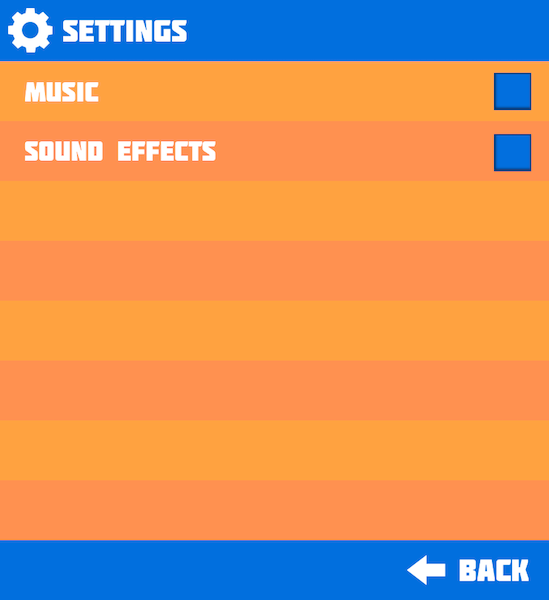
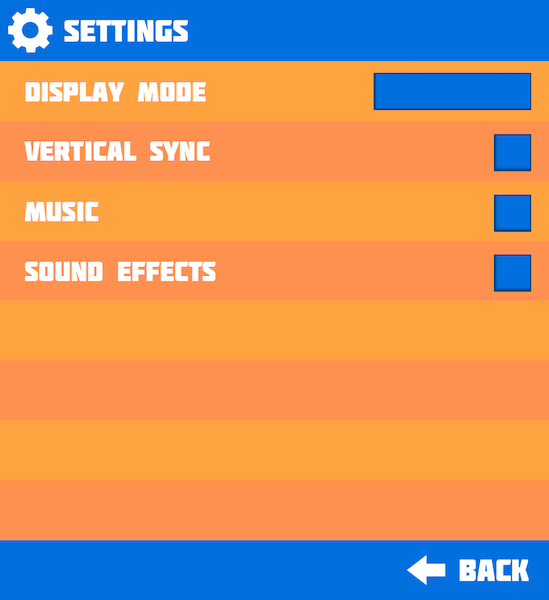
More options added to settings menu

diff --git a/core/src/com/game/Settings.java b/core/src/com/game/Settings.java
@@ -27,6 +27,8 @@ public class Settings implements Screen {
     private float timeElapsed;
     public static boolean musicEnabled = true;
     public static boolean sfxEnabled = true;
+    private boolean vSyncEnabled = true;
+    private boolean fullScreenEnabled = true;
 
     /**
      * Constructor for Settings screen.
@@ -69,12 +71,23 @@ public class Settings implements Screen {
         GameEntry.batch.draw(settingsBox, Gdx.graphics.getWidth()/2 - settingsBox.getWidth()/2, Gdx.graphics.getHeight()/2 - settingsBox.getHeight()/2);
 
         //Checkmarks
+        if(fullScreenEnabled){
+            font.draw(GameEntry.batch, "Full Screen", Gdx.graphics.getWidth()/2 - settingsBox.getWidth()/2 + 383, Gdx.graphics.getHeight()/2 + settingsBox.getHeight()/2 - 81);
+        }
+        else{
+            font.draw(GameEntry.batch, "Windowed", Gdx.graphics.getWidth()/2 - settingsBox.getWidth()/2 + 384, Gdx.graphics.getHeight()/2 + settingsBox.getHeight()/2 - 81);
+        }
+
+        if(vSyncEnabled){
+            GameEntry.batch.draw(checkmark, (Gdx.graphics.getWidth()/2 - settingsBox.getWidth()/2) + 493, (Gdx.graphics.getHeight()/2 - settingsBox.getHeight()/2) + 428, 40, 40);
+        }
+
         if(musicEnabled){
-            GameEntry.batch.draw(checkmark, (Gdx.graphics.getWidth()/2 - settingsBox.getWidth()/2) + 493, (Gdx.graphics.getHeight()/2 - settingsBox.getHeight()/2) + 489, 40, 40);
+            GameEntry.batch.draw(checkmark, (Gdx.graphics.getWidth()/2 - settingsBox.getWidth()/2) + 493, (Gdx.graphics.getHeight()/2 - settingsBox.getHeight()/2) + 367, 40, 40);
         }
 
         if(sfxEnabled){
-            GameEntry.batch.draw(checkmark, (Gdx.graphics.getWidth()/2 - settingsBox.getWidth()/2) + 493, (Gdx.graphics.getHeight()/2 - settingsBox.getHeight()/2) + 428, 40, 40);
+            GameEntry.batch.draw(checkmark, (Gdx.graphics.getWidth()/2 - settingsBox.getWidth()/2) + 493, (Gdx.graphics.getHeight()/2 - settingsBox.getHeight()/2) + 306, 40, 40);
         }
 
         //Get mouse coordinates
@@ -83,13 +96,51 @@ public class Settings implements Screen {
 
         //font.draw(GameEntry.batch, "" + xPos, Gdx.graphics.getWidth()/2 - 80, Gdx.graphics.getHeight()/2 + 20);
         //font.draw(GameEntry.batch, "" + yPos, Gdx.graphics.getWidth()/2 - 80, Gdx.graphics.getHeight()/2 + 40);
-        //font.draw(GameEntry.batch, "" + (Gdx.graphics.getWidth()/2 - settingsBox.getWidth()/2), Gdx.graphics.getWidth()/2 - 80, Gdx.graphics.getHeight()/2 + 80);
-        //font.draw(GameEntry.batch, "" + (Gdx.graphics.getHeight()/2 - settingsBox.getHeight()/2), Gdx.graphics.getWidth()/2 - 80, Gdx.graphics.getHeight()/2 + 100);
-        font.draw(GameEntry.batch, "more options to be added", Gdx.graphics.getWidth()/2 - 80, Gdx.graphics.getHeight()/2 + 60);
+        font.draw(GameEntry.batch, "more options to be added. button hitboxes gets shifted upwards in windowed mode", Gdx.graphics.getWidth()/2 - 500, Gdx.graphics.getHeight()/2 - 150);
+
+        //Full screen/windowed mode
+        if (xPos >= (Gdx.graphics.getWidth()/2 - settingsBox.getWidth()/2) + 375  && xPos <= (Gdx.graphics.getWidth()/2 - settingsBox.getWidth()/2) + 530){
+            if (yPos >= (Gdx.graphics.getHeight()/2 - settingsBox.getHeight()/2) + 75 && yPos <= (Gdx.graphics.getHeight()/2 - settingsBox.getHeight()/2) + 110){
+                if (Gdx.input.isTouched() && timeElapsed > 0.2f){
+                    timeElapsed = 0;
+                    if(fullScreenEnabled){
+                        Gdx.graphics.setWindowedMode(Gdx.graphics.getWidth(), Gdx.graphics.getHeight());
+                        fullScreenEnabled = false;
+                    }
+                    else{
+                        Gdx.graphics.setFullscreenMode(Gdx.graphics.getDisplayMode());
+                        fullScreenEnabled = true;
+                    }
+                    if(sfxEnabled){
+                        soundEffect2.play(1.0f);
+                    }
+                }
+            }
+        }
+
+        //Enabling/disabling V-sync
+        if (xPos >= (Gdx.graphics.getWidth()/2 - settingsBox.getWidth()/2) + 495  && xPos <= (Gdx.graphics.getWidth()/2 - settingsBox.getWidth()/2) + 530){
+            if (yPos >= (Gdx.graphics.getHeight()/2 - settingsBox.getHeight()/2) + 136 && yPos <= (Gdx.graphics.getHeight()/2 - settingsBox.getHeight()/2) + 171){
+                if (Gdx.input.isTouched() && timeElapsed > 0.2f){
+                    timeElapsed = 0;
+                    if(vSyncEnabled){
+                        Gdx.graphics.setVSync(false);
+                        vSyncEnabled = false;
+                    }
+                    else{
+                        Gdx.graphics.setVSync(true);
+                        vSyncEnabled = true;
+                    }
+                    if(sfxEnabled){
+                        soundEffect2.play(1.0f);
+                    }
+                }
+            }
+        }
 
         //Enabling/disabling music
         if (xPos >= (Gdx.graphics.getWidth()/2 - settingsBox.getWidth()/2) + 495  && xPos <= (Gdx.graphics.getWidth()/2 - settingsBox.getWidth()/2) + 530){
-            if (yPos >= (Gdx.graphics.getHeight()/2 - settingsBox.getHeight()/2) + 75 && yPos <= (Gdx.graphics.getHeight()/2 - settingsBox.getHeight()/2) + 110){
+            if (yPos >= (Gdx.graphics.getHeight()/2 - settingsBox.getHeight()/2) + 197 && yPos <= (Gdx.graphics.getHeight()/2 - settingsBox.getHeight()/2) + 232){
                 if (Gdx.input.isTouched() && timeElapsed > 0.2f){
                     timeElapsed = 0;
                     if(musicEnabled){
@@ -107,7 +158,7 @@ public class Settings implements Screen {
 
         //Enabling/disabling sfx
         if (xPos >= (Gdx.graphics.getWidth()/2 - settingsBox.getWidth()/2) + 495  && xPos <= (Gdx.graphics.getWidth()/2 - settingsBox.getWidth()/2) + 530){
-            if (yPos >= (Gdx.graphics.getHeight()/2 - settingsBox.getHeight()/2) + 136 && yPos <= (Gdx.graphics.getHeight()/2 - settingsBox.getHeight()/2) + 171){
+            if (yPos >= (Gdx.graphics.getHeight()/2 - settingsBox.getHeight()/2) + 258 && yPos <= (Gdx.graphics.getHeight()/2 - settingsBox.getHeight()/2) + 293){
                 if (Gdx.input.isTouched() && timeElapsed > 0.2f){
                     timeElapsed = 0;
                     if(sfxEnabled){
